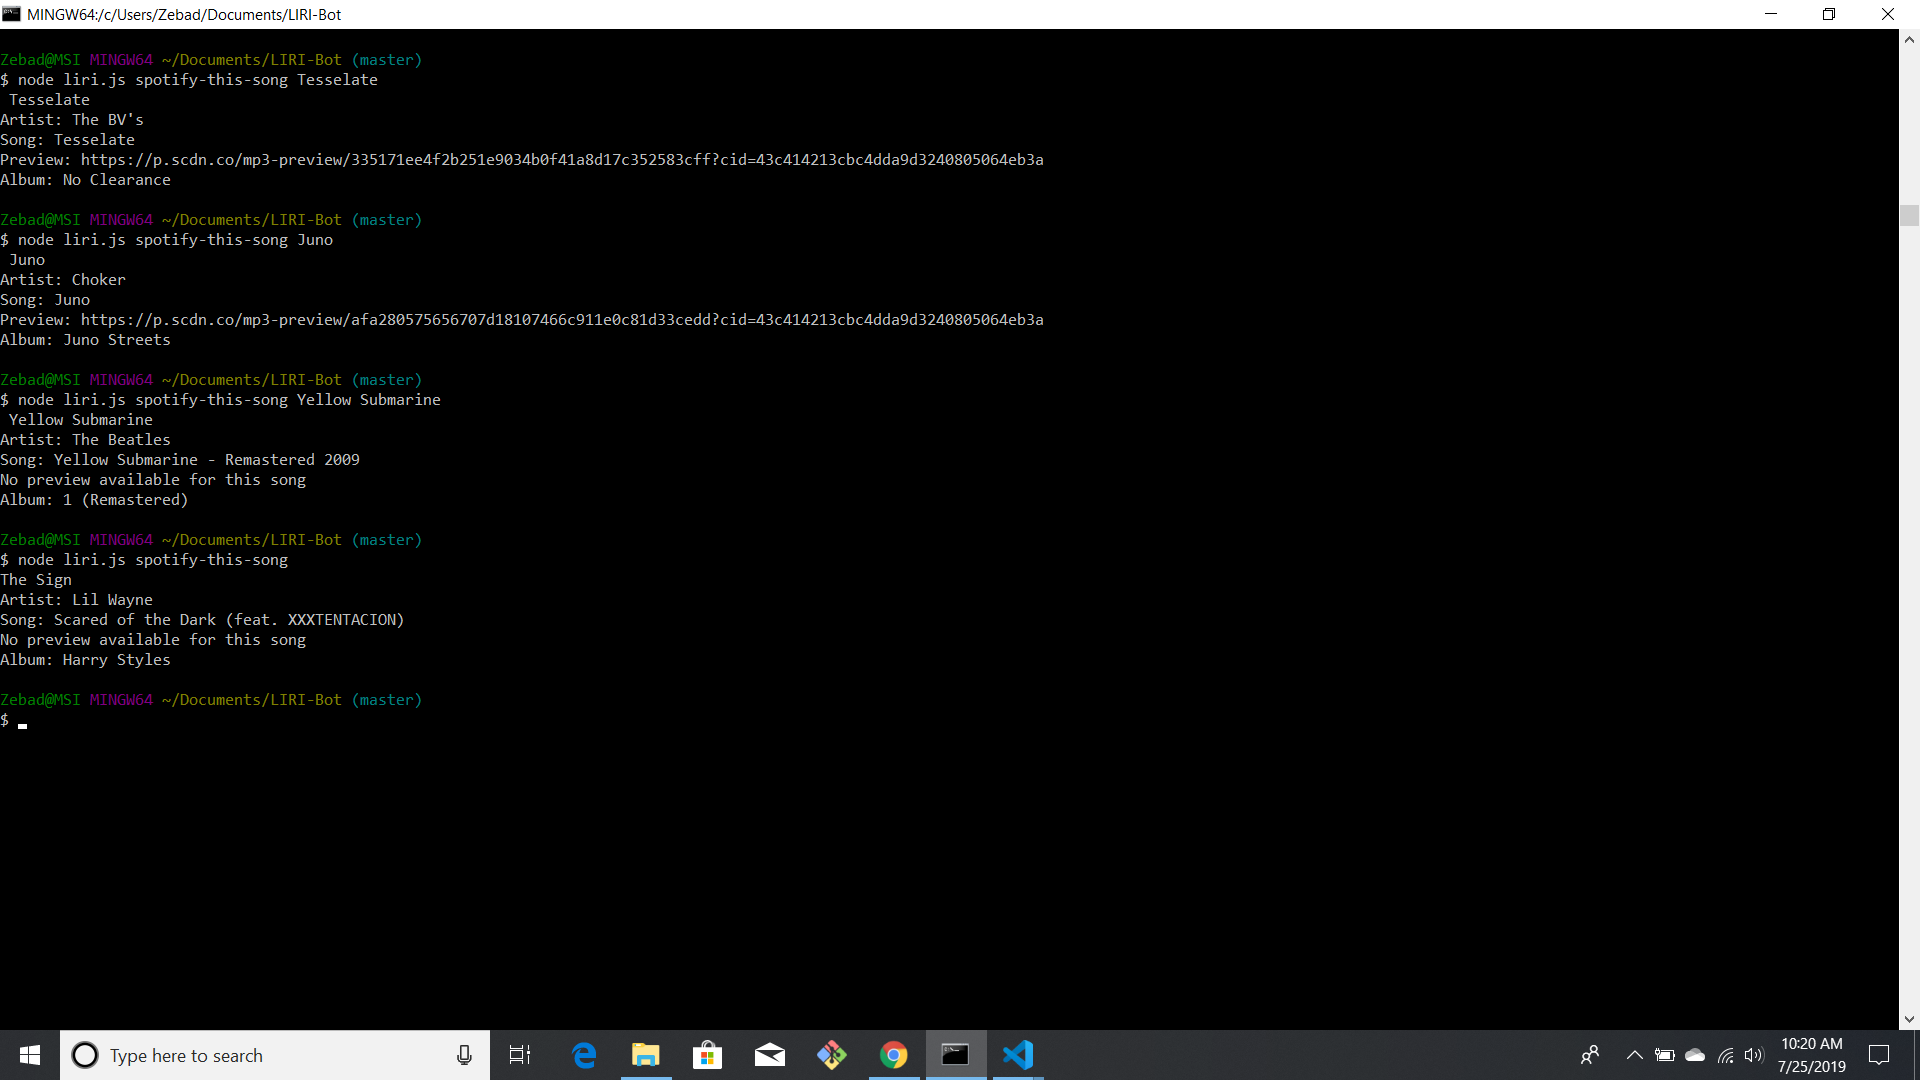
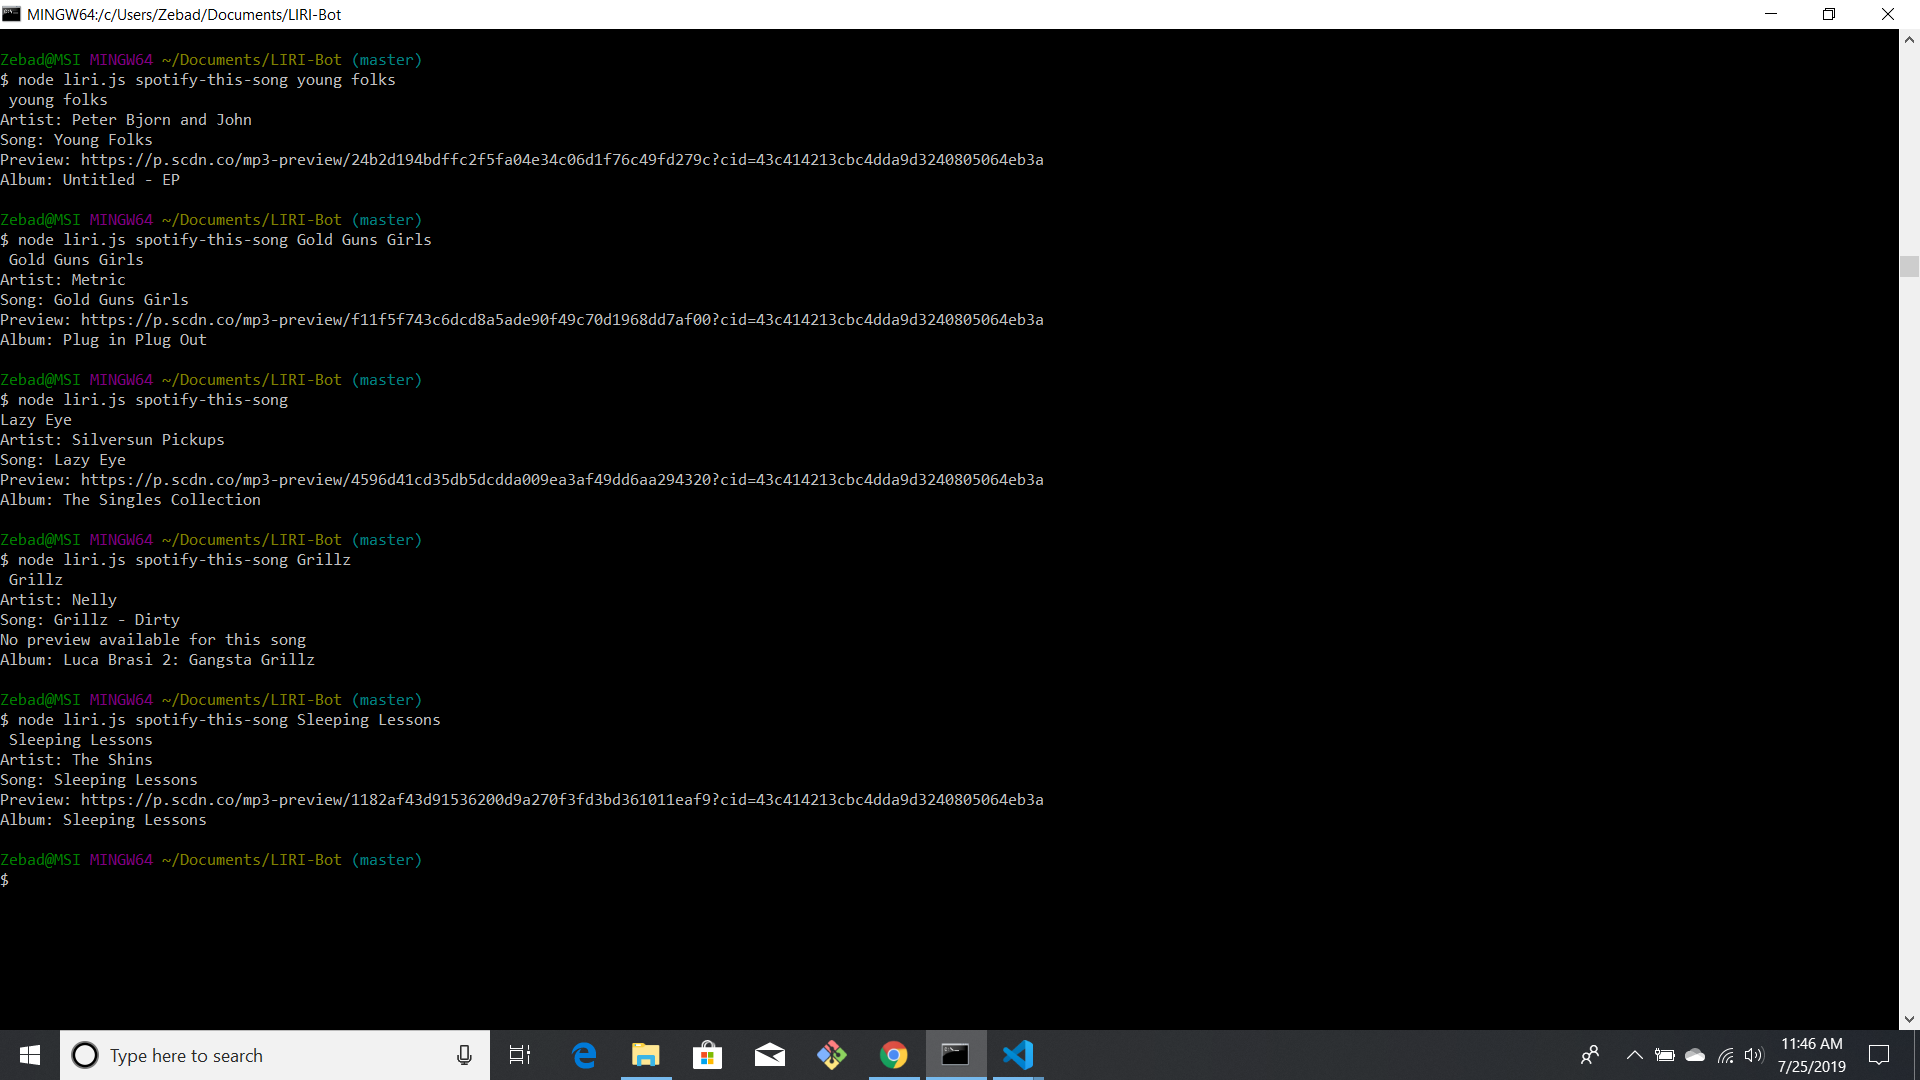
updated readme image and update empty spotify search

diff --git a/liri.js b/liri.js
@@ -16,7 +16,7 @@ for (let i =3; i < nodeArg.length; i++){
     }
    }
    if (process.argv[2]==="spotify-this-song" && process.argv[3]==null){
-       spotifyQuery ="The Sign"
+       spotifyQuery ="Lazy Eye"
    }
 console.log(spotifyQuery)
 
